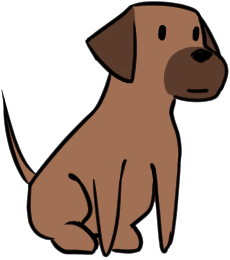
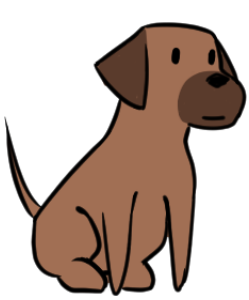
got dog to follow + some level changes

Changed region(s): [[0.0, 0.0, 1.0, 1.0], [0.6696, 0.8923, 0.7609, 0.9846]]

diff --git a/levels/officeFut.js b/levels/officeFut.js
@@ -13,7 +13,7 @@ class CoreGameplay extends SchismScene {
         this.load.spritesheet('luneIdle', 'luneIdle_spritesheet.png', {frameWidth: 600, frameHeight: 600});
         this.load.spritesheet('luneRun', 'luneRun_spritesheet.png', {frameWidth: 600, frameHeight: 600});
         this.load.spritesheet('luneJump', 'luneJump_spritesheet.png', {frameWidth: 600, frameHeight: 600});
-        this.load.spritesheet('sol', 'spritesheetSol-01.png', {frameWidth: 600, frameHeight: 600});
+        this.load.spritesheet('sol', 'spritesheetSol-01.png', {frameWidth: 600, frameHeight: 300});
 
 
         //levels
@@ -50,25 +50,25 @@ class CoreGameplay extends SchismScene {
         this.ui = new UI(this, "right", "interact", "mute", "swap", "fullscreen", "sound");
         
         // Create Player + Set Position + Camera Follow
-        this.player = new Player(this, 300, 1010, 'luneSleep');
-        let mobileControls = [this.ui.leftButton, this.ui.rightButton, this.ui.upButton];
-        this.player.create(mobileControls);
+        this.player = new Player(this, 300, 1010, 'luneSleep').setDepth(playerDepth);
         if(this.getData('x') != undefined) {
             this.player.x = this.getData('x');
         }
         if(this.getData('y') != undefined) {
             this.player.y = this.getData('y');
         }
-
         this.cameras.main.startFollow(this.player);
         this.cameras.main.setBounds(0, 0, bg.width, bg.height);
 
-        //cc
-        //this.cc = new cc(this);
+        // Link mobile controls to Player
+        let mobileControls = [this.ui.leftButton, this.ui.rightButton, this.ui.upButton];
+        this.player.create(mobileControls);
 
         //dog
-        this.goal = this.physics.add.sprite(2560*.6, 1920*.5,'solSit')
-        this.goal.flipX=true;
+        // this.dog = this.physics.add.sprite(2560*.6, 1920*.5,'solSit')
+        // this.dog.flipX=true;
+        this.dog = new Dog(this, this.player.x, this.player.y, "solBase").setDepth(dogDepth);
+        this.dog.create();
 
         //desk
         this.desk = this.add.rectangle(2560 * 0.4, 1920 * 0.5, 2560 *0.1 , 1920 * 0.05, 0xff0000).setOrigin(0);
@@ -83,68 +83,31 @@ class CoreGameplay extends SchismScene {
         this.floor.body.allowGravity = false;
         this.floor.body.immovable = true;
 
-        // Create world bounds
-        this.worldbounds = this.add.group();
-        this.lWall = this.add.rectangle(-100,0,100,1920).setOrigin(0);
-        this.physics.add.existing(this.lWall);
-        this.lWall.body.allowGravity = false;
-        this.lWall.body.immovable = true;
-        this.worldbounds.add(this.lWall);
+        // Dialogue
+        this.time.delayedCall(6000, () => {
+            this.player.anims.pause();
+            this.startDialogue("tutorial1", () => {console.log("test")}, () => {this.player.anims.resume()});
+        });
 
-        this.rWall = this.add.rectangle(2560,0,100,1920).setOrigin(0);
-        this.physics.add.existing(this.rWall);
-        this.rWall.body.allowGravity = false;
-        this.rWall.body.immovable = true;
-        this.worldbounds.add(this.rWall);
-
-        // Player Physics
+        //Physics
         this.physics.add.collider(this.player, this.floor);
         this.physics.add.collider(this.player, this.worldbounds);
 
+        this.physics.add.collider(this.dog, this.floor);
+        this.physics.add.collider(this.dog, this.worldbounds);
 
-        this.physics.add.collider(this.goal, this.floor);
-        this.physics.add.collider(this.goal, this.worldbounds);
-
-        this.time.delayedCall(6000, () => {this.startDialogue("tutorial1", () => {console.log("test")}, () => {console.log("test")})});
-
-        
-
-        this.physics.add.overlap(this.player, this.goal, () => {if(keyStatus == 1){this.scene.start("CoreGameplay2")}});
-
-        this.physics.add.overlap(this.player, this.desk, () => {if(atDesk == 0){atDesk = 1}});
-        //this.physics.add.overlap(this.player, this.goal, null, null, this);
+        this.physics.add.overlap(this.player, this.dog, () => {});
+        this.physics.add.overlap(this.player, this.desk, () => {});
     }
 
     update() {
         // Update Player Logics
         this.player.update();
 
+        // Update Dog Logics
+        this.dog.update();
+
         // Update UI Logics
         this.ui.update();
-
-        if(Phaser.Input.Keyboard.JustDown(this.input.keyboard.addKey(Phaser.Input.Keyboard.KeyCodes.E))) {
-            this.player.text.setText("swssh");
-            this.player.body.enable = false;
-            this.addData('x', this.player.x);
-            this.addData('y', this.player.y);
-            this.timeSound = this.sound.add("sound");
-            this.timeSound.play();
-            this.timeTravel('CoreGameplayAlt');
-            
-            //console.log(atDesk);
-        }
-
-        if(Phaser.Input.Keyboard.JustDown(this.input.keyboard.addKey(Phaser.Input.Keyboard.KeyCodes.F)) && atDesk == 1) {
-            
-            //Put desk note test here somehow
-            console.log("desk note desc");
-
-        }
-
-        //this.physics.add.overlap(this.player, this.desk, () => {this.scene.start("CoreGameplay2")});
-        
-
-        //this.physics.add.overlap(this.player, this.goal, console.log("dog"), null, this);
-
     }
 }

diff --git a/prefabs/Dog.js b/prefabs/Dog.js
@@ -1,0 +1,66 @@
+class Dog extends Phaser.Physics.Arcade.Sprite {
+    constructor(scene, x, y, texture) {
+        super(scene, x, y, texture);
+  
+        scene.add.existing(this);
+        scene.physics.world.enable(this);
+        this.setOrigin(0.5);
+
+        this.running = false;
+        this.jumping = false;
+    }
+
+    create() {
+        this.anims.create({
+            key: 'run',
+            frames: this.anims.generateFrameNumbers('sol', { frames: [0, 1, 2, 3, 4] }),
+            frameRate: 8,
+            repeat: -1
+        });
+        this.play('run');
+    }
+
+    update() {
+        this.setVelocityX(this.scene.player.body.velocity.x);
+
+        // Have Dog follow player
+        if(this.body.velocity.x > 0) {
+            if(!this.running) {
+                this.running = true;
+                this.flipX = false;
+                this.play('run');
+            }
+            if(this.x < this.scene.player.x + 50) {
+                this.setVelocityX(this.scene.player.body.velocity.x + 200);
+            }
+            if(this.x > this.scene.player.x + 50) {
+                this.setVelocityX(this.scene.player.body.velocity.x - 200);
+            }
+        }
+        else if(this.body.velocity.x < 0) {
+            if(!this.running) {
+                this.running = true;
+                this.flipX = true;
+                this.play('run');
+            }
+            if(this.x > this.scene.player.x - 50) {
+                this.setVelocityX(this.scene.player.body.velocity.x - 200);
+            }
+            if(this.x < this.scene.player.x - 50) {
+                this.setVelocityX(this.scene.player.body.velocity.x + 200);
+            }
+        }
+        else if(this.body.velocity.x == 0  && this.running){
+            this.running = false;
+            this.stop();
+            this.setTexture("solBase");
+        }
+
+        // If player can't move then dog no move
+        if(this.scene.player.body.enable == false) {
+            this.body.enable = false;
+        } else {
+            this.body.enable = true;
+        }
+    }
+}

diff --git a/prefabs/Player.js b/prefabs/Player.js
@@ -11,7 +11,7 @@ class Player extends Phaser.Physics.Arcade.Sprite {
         this.rect.setScrollFactor(0);
 
         this.text = scene.add.text(this.rect.x + 330, (1920 * 0.51), "").setOrigin(0.5,0.5)
-        .setStyle({ fontSize: 100 });
+            .setStyle({ fontSize: 100 });
         this.text.setScrollFactor(0);
       
         this.moving = false;
@@ -44,6 +44,10 @@ class Player extends Phaser.Physics.Arcade.Sprite {
             frameRate: 4
         });
 
+        // Set hitbox to be idle frame
+        this.body.setSize(400,600);
+        this.body.setOffset(100, 0);
+
         // Play idle on load
         this.play('idle');
 
@@ -52,6 +56,7 @@ class Player extends Phaser.Physics.Arcade.Sprite {
         this.playerInteractBox.visible = false;
         this.playerInteractBox.body.immovable = true;
         this.playerInteractBox.body.allowGravity = false;
+        this.playerInteractBox.body.setSize(600,600);
 
         // Be able to listen to 2 touch inputs
         this.scene.input.addPointer(2);
@@ -75,8 +80,8 @@ class Player extends Phaser.Physics.Arcade.Sprite {
                 this.play('run');
             }
             this.moving = true;
-            this.playerInteractBox.body.setSize(555,600);
-            this.playerInteractBox.body.setOffset(-200,0);
+            this.playerInteractBox.body.setSize(600,600);
+            this.playerInteractBox.body.setOffset(-100,0);
         });
 
         rightButton.on('pointerover', () =>
@@ -88,8 +93,8 @@ class Player extends Phaser.Physics.Arcade.Sprite {
                 this.play('run');
             }
             this.moving = true;
-            this.playerInteractBox.body.setSize(555,600);
-            this.playerInteractBox.body.setOffset(0,0);
+            this.playerInteractBox.body.setSize(600,600);
+            this.playerInteractBox.body.setOffset(100,0);
         });
 
         jumpButton.on('pointerover', () =>

diff --git a/main.js b/main.js
@@ -1,12 +1,10 @@
-//Really shit ways of seeing if we saw things in scene
-let atDesk = 0;
-let keyStatus = 0;
-let brkCon = 0;
-let platStat = 0;
-//let barkPlace = 0;
+// Depth variables
+const envDepth = 0;
+const playerDepth = 3;
+const dogDepth = 2;
+const objectDepth = 1;
 
 const game = new Phaser.Game({
-// https://www.youtube.com/watch?v=H4BAEf5V-Yc&ab_channel=BreakingCopyright%E2%80%94RoyaltyFreeMusic
     preload() {
         //sound
         this.load.path = '../assets/sound/';
@@ -34,7 +32,7 @@ const game = new Phaser.Game({
     //scene: [CoreGameplay, CoreGameplayAlt, CoreGameplay2, CoreGameplay2Alt, CoreGameplay3, CoreGameplay3Alt, ending],
     //scene: [CoreGameplay3, CoreGameplay3Alt, ending],
     //scene: [CoreGameplay],
-    scene: []
+    scene: [CoreGameplay],
     //scene: [CoreGameplay2, CoreGameplay2Alt,CoreGameplay3],
     title: "Schism"
 });

diff --git a/index.html b/index.html
@@ -7,6 +7,10 @@
     <title>Schism</title>
     <script src="phaser.min.js"></script>
     <script src="prefabs/Engine.js"></script>
+    <script src="prefabs/Player.js"></script>
+    <script src="prefabs/UI.js"></script>
+    <script src="prefabs/Dog.js"></script>
+    <script src="prefabs/cc.js"></script>
     <script src="levels/officeFut.js"></script>
     <script src="levels/officePast.js"></script>
     <script src="levels/craneFut.js"></script>
@@ -14,9 +18,6 @@
     <script src="levels/finalFut.js"></script>
     <script src="levels/finalPast.js"></script>
     <script src="levels/end.js"></script>
-    <script src="prefabs/Player.js"></script>
-    <script src="prefabs/UI.js"></script>
-    <script src="prefabs/cc.js"></script>
     <script src="main.js"></script>
     
     

diff --git a/prefabs/Engine.js b/prefabs/Engine.js
@@ -24,7 +24,7 @@ class SchismScene extends Phaser.Scene {
         this.dialogueRectangle = this.add.rectangle(220, 1035, 1470, 300, 0x000000).setOrigin(0).setDepth(10).setAlpha(0.7);
         this.dialogueRectangle.setScrollFactor(0);
         this.dialogueRectangle.visible = false;
-        this.dialogueText = this.add.text(240, 1055, '', {fontSize: 40, color: '#ffffff', wordWrap: { width: 1470 }}).setDepth(10);
+        this.dialogueText = this.add.text(240, 1055, '', {fontSize: 40, color: '#ffffff', wordWrap: { width: 1460 }}).setDepth(10);
         this.dialogueText.setScrollFactor(0);
         this.dialogueKey;
         this.dialogueIndex = 0;
